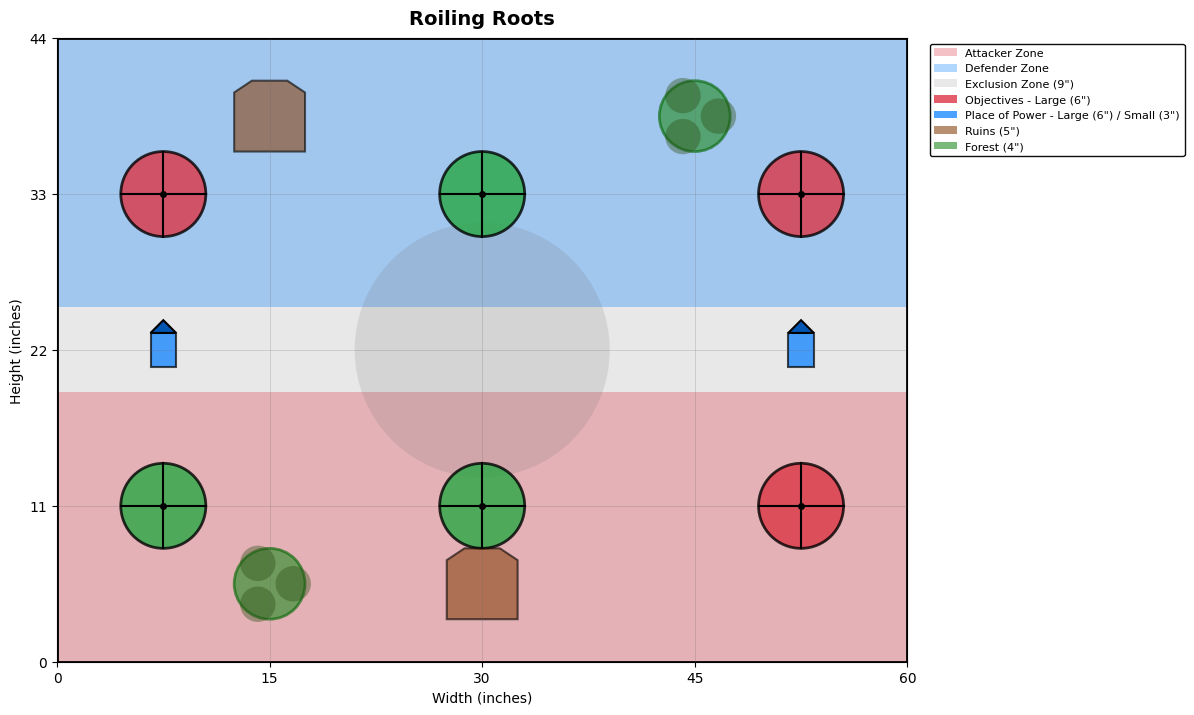
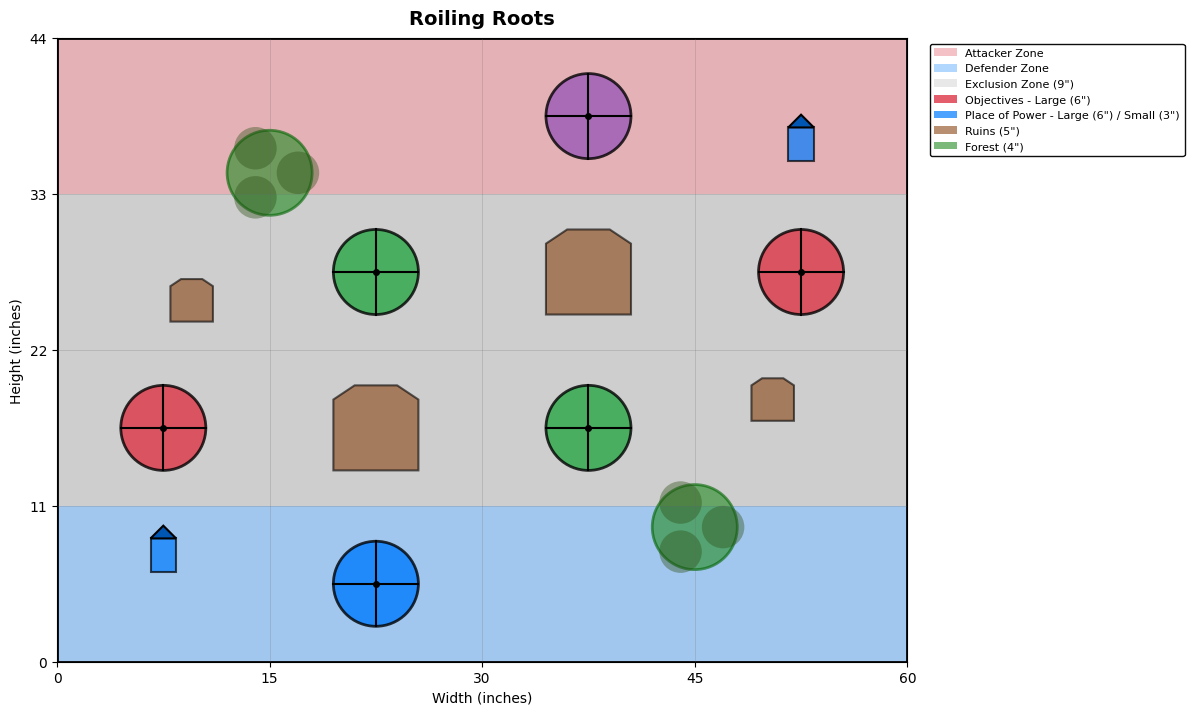
Lock Roiling Roots: 6 objectives, 2 large ruins, 2 forests, 2 small ruins, 2 PoP

diff --git a/battle-plans-demo.html b/battle-plans-demo.html
@@ -56,7 +56,7 @@
     </div>
     <div class="status-summary">
         <div class="status-item">
-            <span class="status-count locked">8</span>
+            <span class="status-count locked">9</span>
             <div class="status-label">LOCKED</div>
         </div>
         <div class="status-item">
@@ -64,7 +64,7 @@
             <div class="status-label">IN PROGRESS</div>
         </div>
         <div class="status-item">
-            <span class="status-count remaining">3</span>
+            <span class="status-count remaining">2</span>
             <div class="status-label">REMAINING</div>
         </div>
     </div>
@@ -73,52 +73,50 @@
             <div class="card">
                 <div class="card-header">
                     <div class="mission-num">Mission 1 of 12</div>
-                    <h2>Paths of the Fey</h2>
+                    <h2>Roiling Roots</h2>
                 </div>
                 <div class="grid4">
                     <div class="col">
                         <h3><span class="badge badge-waha">WAHAPEDIA</span></h3>
                         <div class="img-box">
-                            <img src="assets/battle-plans/aos-paths-of-the-fey.png" alt="Paths of the Fey Wahapedia">
+                            <img src="assets/battle-plans/aos-roiling-roots.png" alt="Roiling Roots Wahapedia">
                             <div class="img-label">Original Source</div>
                         </div>
                     </div>
                     <div class="col">
                         <h3><span class="badge badge-aoi">AGE OF INDEX</span></h3>
                         <div class="img-box">
-                            <img src="assets/battle-plans-ageofindex/aos-paths-of-the-fey.png" alt="Paths of the Fey AOI">
+                            <img src="assets/battle-plans-ageofindex/aos-roiling-roots.png" alt="Roiling Roots AOI">
                             <div class="img-label">ageofindex.com</div>
                         </div>
                     </div>
                     <div class="col">
                         <h3><span class="badge badge-matplot">MATPLOTLIB</span></h3>
                         <div class="img-box">
-                            <img src="assets/battle-plans-matplotlib/aos-paths-of-the-fey-matplotlib.png" alt="Paths of the Fey Generated">
+                            <img src="assets/battle-plans-matplotlib/aos-roiling-roots-matplotlib.png" alt="Roiling Roots Generated">
                             <div class="img-label">Generated Diagram</div>
                         </div>
                     </div>
                     <div class="col">
                         <h3><span class="badge badge-elem">BATTLEFIELD ELEMENTS</span></h3>
                         <div class="elem-list">
-                            <div class="elem-item zone-item"><span class="elem-type">Deployment zone</span> Neutral L Zone<div class="zone-coords">(0", 0") → (15", 0") → (15", 44") → (0", 44")</div></div>
-                                <div class="elem-item zone-item"><span class="elem-type">Deployment zone</span> Neutral R Zone<div class="zone-coords">(45", 0") → (60", 0") → (60", 44") → (45", 44")</div></div>
-                                <div class="elem-item zone-item"><span class="elem-type">Deployment zone</span> Red Zone<div class="zone-coords">(15", 22") → (45", 22") → (45", 44") → (15", 44")</div></div>
-                                <div class="elem-item zone-item"><span class="elem-type">Deployment zone</span> Blue Zone<div class="zone-coords">(15", 0") → (45", 0") → (45", 22") → (15", 22")</div></div>
-                                <div class="elem-item zone-item"><span class="elem-type">Exclusion zone</span> 9" from blue edge<div class="zone-coords">(15", 13") → (45", 13") → (45", 22") → (15", 22")</div></div>
-                                <div class="elem-item zone-item"><span class="elem-type">Exclusion zone</span> 9" from red edge<div class="zone-coords">(15", 22") → (45", 22") → (45", 31") → (15", 31")</div></div>
-                                <div class="elem-item"><span class="elem-type">Objective</span> <span class="color-badge color-blue"></span>Blue Center (large)<span class="coords">(30", 22")</span></div>
-                                <div class="elem-item"><span class="elem-type">Objective</span> <span class="color-badge color-red"></span>Red NW (large)<span class="coords">(7.5", 33")</span></div>
-                                <div class="elem-item"><span class="elem-type">Objective</span> <span class="color-badge color-red"></span>Red SE (large)<span class="coords">(52.5", 11")</span></div>
-                                <div class="elem-item"><span class="elem-type">Objective</span> <span class="color-badge color-green"></span>Green SW (large)<span class="coords">(7.5", 11")</span></div>
-                                <div class="elem-item"><span class="elem-type">Objective</span> <span class="color-badge color-green"></span>Green NE (large)<span class="coords">(52.5", 33")</span></div>
-                                <div class="elem-item"><span class="elem-type">Forest</span> Forest NW (large)<span class="coords">(19", 31")</span></div>
-                                <div class="elem-item"><span class="elem-type">Forest</span> Forest SE (large)<span class="coords">(41", 13")</span></div>
-                                <div class="elem-item"><span class="elem-type">Forest</span> Forest NE (large)<span class="coords">(37.5", 35")</span></div>
-                                <div class="elem-item"><span class="elem-type">Forest</span> Forest SW (large)<span class="coords">(22.5", 9")</span></div>
-                                <div class="elem-item"><span class="elem-type">Ruins</span> Ruins W (small)<span class="coords">(20", 22")</span></div>
-                                <div class="elem-item"><span class="elem-type">Ruins</span> Ruins E (small)<span class="coords">(40", 22")</span></div>
-                                <div class="elem-item"><span class="elem-type">Place of power</span> PoP SW (small)<span class="coords">(7.5", 21")</span></div>
-                                <div class="elem-item"><span class="elem-type">Place of power</span> PoP NE (small)<span class="coords">(52.5", 23")</span></div>
+                            <div class="elem-item zone-item"><span class="elem-type">Deployment zone</span> Red Top Zone<div class="zone-coords">(0", 33") → (60", 33") → (60", 44") → (0", 44")</div></div>
+                                <div class="elem-item zone-item"><span class="elem-type">Deployment zone</span> Blue Bottom Zone<div class="zone-coords">(0", 0") → (60", 0") → (60", 11") → (0", 11")</div></div>
+                                <div class="elem-item zone-item"><span class="elem-type">Deployment zone</span> Neutral Zone<div class="zone-coords">(0", 11") → (60", 11") → (60", 33") → (0", 33")</div></div>
+                                <div class="elem-item"><span class="elem-type">Objective</span> <span class="color-badge color-purple"></span>Purple G3 (large)<span class="coords">(37.5", 38.5")</span></div>
+                                <div class="elem-item"><span class="elem-type">Objective</span> <span class="color-badge color-green"></span>Green G6 (large)<span class="coords">(22.5", 27.5")</span></div>
+                                <div class="elem-item"><span class="elem-type">Objective</span> <span class="color-badge color-red"></span>Red G8 (large)<span class="coords">(52.5", 27.5")</span></div>
+                                <div class="elem-item"><span class="elem-type">Objective</span> <span class="color-badge color-red"></span>Red G9 (large)<span class="coords">(7.5", 16.5")</span></div>
+                                <div class="elem-item"><span class="elem-type">Objective</span> <span class="color-badge color-green"></span>Green G11 (large)<span class="coords">(37.5", 16.5")</span></div>
+                                <div class="elem-item"><span class="elem-type">Objective</span> <span class="color-badge color-blue"></span>Blue G14 (large)<span class="coords">(22.5", 5.5")</span></div>
+                                <div class="elem-item"><span class="elem-type">Ruins</span> Ruins G7 (large)<span class="coords">(37.5", 27.5")</span></div>
+                                <div class="elem-item"><span class="elem-type">Ruins</span> Ruins G10 (large)<span class="coords">(22.5", 16.5")</span></div>
+                                <div class="elem-item"><span class="elem-type">Place of power</span> PoP G4 (small)<span class="coords">(52.5", 36.5")</span></div>
+                                <div class="elem-item"><span class="elem-type">Place of power</span> PoP G13 (small)<span class="coords">(7.5", 7.5")</span></div>
+                                <div class="elem-item"><span class="elem-type">Forest</span> Forest G1/G2 (large)<span class="coords">(15", 34.5")</span></div>
+                                <div class="elem-item"><span class="elem-type">Forest</span> Forest G15/G16 (large)<span class="coords">(45", 9.5")</span></div>
+                                <div class="elem-item"><span class="elem-type">Ruins</span> Ruins G5 (small)<span class="coords">(9.5", 25.5")</span></div>
+                                <div class="elem-item"><span class="elem-type">Ruins</span> Ruins G12 (small)<span class="coords">(50.5", 18.5")</span></div>
                         </div>
                     </div>
                 </div>
@@ -530,48 +528,52 @@
             <div class="card">
                 <div class="card-header">
                     <div class="mission-num">Mission 10 of 12</div>
-                    <h2>Roiling Roots</h2>
+                    <h2>Paths of the Fey <span style="color: #28a745; font-weight: bold;">[LOCKED]</span></h2>
                 </div>
                 <div class="grid4">
                     <div class="col">
                         <h3><span class="badge badge-waha">WAHAPEDIA</span></h3>
                         <div class="img-box">
-                            <img src="assets/battle-plans/aos-roiling-roots.png" alt="Roiling Roots Wahapedia">
+                            <img src="assets/battle-plans/aos-paths-of-the-fey.png" alt="Paths of the Fey Wahapedia">
                             <div class="img-label">Original Source</div>
                         </div>
                     </div>
                     <div class="col">
                         <h3><span class="badge badge-aoi">AGE OF INDEX</span></h3>
                         <div class="img-box">
-                            <img src="assets/battle-plans-ageofindex/aos-roiling-roots.png" alt="Roiling Roots AOI">
+                            <img src="assets/battle-plans-ageofindex/aos-paths-of-the-fey.png" alt="Paths of the Fey AOI">
                             <div class="img-label">ageofindex.com</div>
                         </div>
                     </div>
                     <div class="col">
                         <h3><span class="badge badge-matplot">MATPLOTLIB</span></h3>
                         <div class="img-box">
-                            <img src="assets/battle-plans-matplotlib/aos-roiling-roots-matplotlib.png" alt="Roiling Roots Generated">
+                            <img src="assets/battle-plans-matplotlib/aos-paths-of-the-fey-matplotlib.png" alt="Paths of the Fey Generated">
                             <div class="img-label">Generated Diagram</div>
                         </div>
                     </div>
                     <div class="col">
                         <h3><span class="badge badge-elem">BATTLEFIELD ELEMENTS</span></h3>
                         <div class="elem-list">
-                            <div class="elem-item zone-item"><span class="elem-type">Deployment zone</span> Attacker Zone<div class="zone-coords">(0", 0") → (60", 0") → (60", 19") → (0", 19")</div></div>
-                                <div class="elem-item zone-item"><span class="elem-type">Deployment zone</span> Defender Zone<div class="zone-coords">(0", 25") → (60", 25") → (60", 44") → (0", 44")</div></div>
-                                <div class="elem-item"><span class="elem-type">Exclusion zone</span> 9" from center point <span class="coords">Center: (30", 22"), Radius: 9"</span></div>
-                                <div class="elem-item"><span class="elem-type">Objective</span> <span class="color-badge color-red"></span>NW (large)<span class="coords">(7.5", 33")</span></div>
-                                <div class="elem-item"><span class="elem-type">Objective</span> <span class="color-badge color-green"></span>N-Center (large)<span class="coords">(30", 33")</span></div>
-                                <div class="elem-item"><span class="elem-type">Objective</span> <span class="color-badge color-red"></span>NE (large)<span class="coords">(52.5", 33")</span></div>
-                                <div class="elem-item"><span class="elem-type">Objective</span> <span class="color-badge color-green"></span>SW (large)<span class="coords">(7.5", 11")</span></div>
-                                <div class="elem-item"><span class="elem-type">Objective</span> <span class="color-badge color-green"></span>S-Center (large)<span class="coords">(30", 11")</span></div>
-                                <div class="elem-item"><span class="elem-type">Objective</span> <span class="color-badge color-red"></span>SE (large)<span class="coords">(52.5", 11")</span></div>
-                                <div class="elem-item"><span class="elem-type">Place of power</span> Place of Power W (small)<span class="coords">(7.5", 22")</span></div>
-                                <div class="elem-item"><span class="elem-type">Place of power</span> Place of Power E (small)<span class="coords">(52.5", 22")</span></div>
-                                <div class="elem-item"><span class="elem-type">Ruins</span> Ruins NW <span class="coords">(15", 38.5")</span></div>
-                                <div class="elem-item"><span class="elem-type">Ruins</span> Ruins S <span class="coords">(30", 5.5")</span></div>
-                                <div class="elem-item"><span class="elem-type">Forest</span> Forest NE <span class="coords">(45", 38.5")</span></div>
-                                <div class="elem-item"><span class="elem-type">Forest</span> Forest SW <span class="coords">(15", 5.5")</span></div>
+                            <div class="elem-item zone-item"><span class="elem-type">Deployment zone</span> Neutral L Zone<div class="zone-coords">(0", 0") → (15", 0") → (15", 44") → (0", 44")</div></div>
+                                <div class="elem-item zone-item"><span class="elem-type">Deployment zone</span> Neutral R Zone<div class="zone-coords">(45", 0") → (60", 0") → (60", 44") → (45", 44")</div></div>
+                                <div class="elem-item zone-item"><span class="elem-type">Deployment zone</span> Red Zone<div class="zone-coords">(15", 22") → (45", 22") → (45", 44") → (15", 44")</div></div>
+                                <div class="elem-item zone-item"><span class="elem-type">Deployment zone</span> Blue Zone<div class="zone-coords">(15", 0") → (45", 0") → (45", 22") → (15", 22")</div></div>
+                                <div class="elem-item zone-item"><span class="elem-type">Exclusion zone</span> 9" from blue edge<div class="zone-coords">(15", 13") → (45", 13") → (45", 22") → (15", 22")</div></div>
+                                <div class="elem-item zone-item"><span class="elem-type">Exclusion zone</span> 9" from red edge<div class="zone-coords">(15", 22") → (45", 22") → (45", 31") → (15", 31")</div></div>
+                                <div class="elem-item"><span class="elem-type">Objective</span> <span class="color-badge color-blue"></span>Blue Center (large)<span class="coords">(30", 22")</span></div>
+                                <div class="elem-item"><span class="elem-type">Objective</span> <span class="color-badge color-red"></span>Red NW (large)<span class="coords">(7.5", 33")</span></div>
+                                <div class="elem-item"><span class="elem-type">Objective</span> <span class="color-badge color-red"></span>Red SE (large)<span class="coords">(52.5", 11")</span></div>
+                                <div class="elem-item"><span class="elem-type">Objective</span> <span class="color-badge color-green"></span>Green SW (large)<span class="coords">(7.5", 11")</span></div>
+                                <div class="elem-item"><span class="elem-type">Objective</span> <span class="color-badge color-green"></span>Green NE (large)<span class="coords">(52.5", 33")</span></div>
+                                <div class="elem-item"><span class="elem-type">Forest</span> Forest NW (large)<span class="coords">(19", 31")</span></div>
+                                <div class="elem-item"><span class="elem-type">Forest</span> Forest SE (large)<span class="coords">(41", 13")</span></div>
+                                <div class="elem-item"><span class="elem-type">Forest</span> Forest NE (large)<span class="coords">(37.5", 35")</span></div>
+                                <div class="elem-item"><span class="elem-type">Forest</span> Forest SW (large)<span class="coords">(22.5", 9")</span></div>
+                                <div class="elem-item"><span class="elem-type">Ruins</span> Ruins W (small)<span class="coords">(20", 22")</span></div>
+                                <div class="elem-item"><span class="elem-type">Ruins</span> Ruins E (small)<span class="coords">(40", 22")</span></div>
+                                <div class="elem-item"><span class="elem-type">Place of power</span> PoP SW (small)<span class="coords">(7.5", 21")</span></div>
+                                <div class="elem-item"><span class="elem-type">Place of power</span> PoP NE (small)<span class="coords">(52.5", 23")</span></div>
                         </div>
                     </div>
                 </div>

diff --git a/scripts/extract_mission_objects.py b/scripts/extract_mission_objects.py
@@ -260,27 +260,28 @@ MISSIONS = {
     "aos-roiling-roots": {
         "name": "Roiling Roots",
         "deployment_zones": [
-            {"player": "Attacker", "color": "#dc3545", "alpha": 0.3, "coords": [(0, 0), (60, 0), (60, 19), (0, 19)]},
-            {"player": "Defender", "color": "#007bff", "alpha": 0.3, "coords": [(0, 25), (60, 25), (60, 44), (0, 44)]},
+            {"player": "Red Top", "color": "#dc3545", "alpha": 0.3, "coords": [(0, 33), (60, 33), (60, 44), (0, 44)]},
+            {"player": "Blue Bottom", "color": "#007bff", "alpha": 0.3, "coords": [(0, 0), (60, 0), (60, 11), (0, 11)]},
+            {"player": "Neutral", "color": "#666666", "alpha": 0.2, "coords": [(0, 11), (60, 11), (60, 33), (0, 33)]},
         ],
-        "exclusion_zones": [
-            {"type": "circle", "center": (30, 22), "radius": 9, "color": "#666666", "alpha": 0.15, "note": "9\" from center point"},
-        ],
+        "exclusion_zones": [],
         "objectives": [
-            {"name": "NW", "x": 7.5, "y": 33, "color": "red", "type": "objective", "size": "large"},
-            {"name": "N-Center", "x": 30, "y": 33, "color": "green", "type": "objective", "size": "large"},
-            {"name": "NE", "x": 52.5, "y": 33, "color": "red", "type": "objective", "size": "large"},
-            {"name": "SW", "x": 7.5, "y": 11, "color": "green", "type": "objective", "size": "large"},
-            {"name": "S-Center", "x": 30, "y": 11, "color": "green", "type": "objective", "size": "large"},
-            {"name": "SE", "x": 52.5, "y": 11, "color": "red", "type": "objective", "size": "large"},
+            {"name": "Purple G3", "x": 37.5, "y": 38.5, "color": "purple", "type": "objective", "size": "large"},
+            {"name": "Green G6", "x": 22.5, "y": 27.5, "color": "green", "type": "objective", "size": "large"},
+            {"name": "Red G8", "x": 52.5, "y": 27.5, "color": "red", "type": "objective", "size": "large"},
+            {"name": "Red G9", "x": 7.5, "y": 16.5, "color": "red", "type": "objective", "size": "large"},
+            {"name": "Green G11", "x": 37.5, "y": 16.5, "color": "green", "type": "objective", "size": "large"},
+            {"name": "Blue G14", "x": 22.5, "y": 5.5, "color": "blue", "type": "objective", "size": "large"},
         ],
         "terrain": [
-            {"name": "Place of Power W", "x": 7.5, "y": 22, "type": "place_of_power", "size": "small"},
-            {"name": "Place of Power E", "x": 52.5, "y": 22, "type": "place_of_power", "size": "small"},
-            {"name": "Ruins NW", "x": 15, "y": 38.5, "type": "ruins"},
-            {"name": "Ruins S", "x": 30, "y": 5.5, "type": "ruins"},
-            {"name": "Forest NE", "x": 45, "y": 38.5, "type": "forest"},
-            {"name": "Forest SW", "x": 15, "y": 5.5, "type": "forest"},
+            {"name": "Ruins G7", "x": 37.5, "y": 27.5, "type": "ruins", "size": "large"},
+            {"name": "Ruins G10", "x": 22.5, "y": 16.5, "type": "ruins", "size": "large"},
+            {"name": "PoP G4", "x": 52.5, "y": 36.5, "type": "place_of_power", "size": "small"},
+            {"name": "PoP G13", "x": 7.5, "y": 7.5, "type": "place_of_power", "size": "small"},
+            {"name": "Forest G1/G2", "x": 15, "y": 34.5, "type": "forest", "size": "large"},
+            {"name": "Forest G15/G16", "x": 45, "y": 9.5, "type": "forest", "size": "large"},
+            {"name": "Ruins G5", "x": 9.5, "y": 25.5, "type": "ruins", "size": "small"},
+            {"name": "Ruins G12", "x": 50.5, "y": 18.5, "type": "ruins", "size": "small"},
         ]
     },
     "aos-surge-of-slaughter": {

diff --git a/scripts/build_demo_fixed.py b/scripts/build_demo_fixed.py
@@ -5,7 +5,7 @@ import subprocess
 from extract_mission_objects import MISSIONS as MISSION_DATA
 
 # Current mission being worked on (shows first in gallery)
-CURRENT_MISSION = "aos-paths-of-the-fey"
+CURRENT_MISSION = "aos-roiling-roots"
 
 # Locked missions (completed and verified)
 LOCKED_MISSIONS = [
@@ -17,6 +17,7 @@ LOCKED_MISSIONS = [
     "aos-lifecycle",
     "aos-linked-ley-lines",
     "aos-noxious-nexus",
+    "aos-paths-of-the-fey",
 ]
 
 # Convert MISSIONS dict to list format for template
